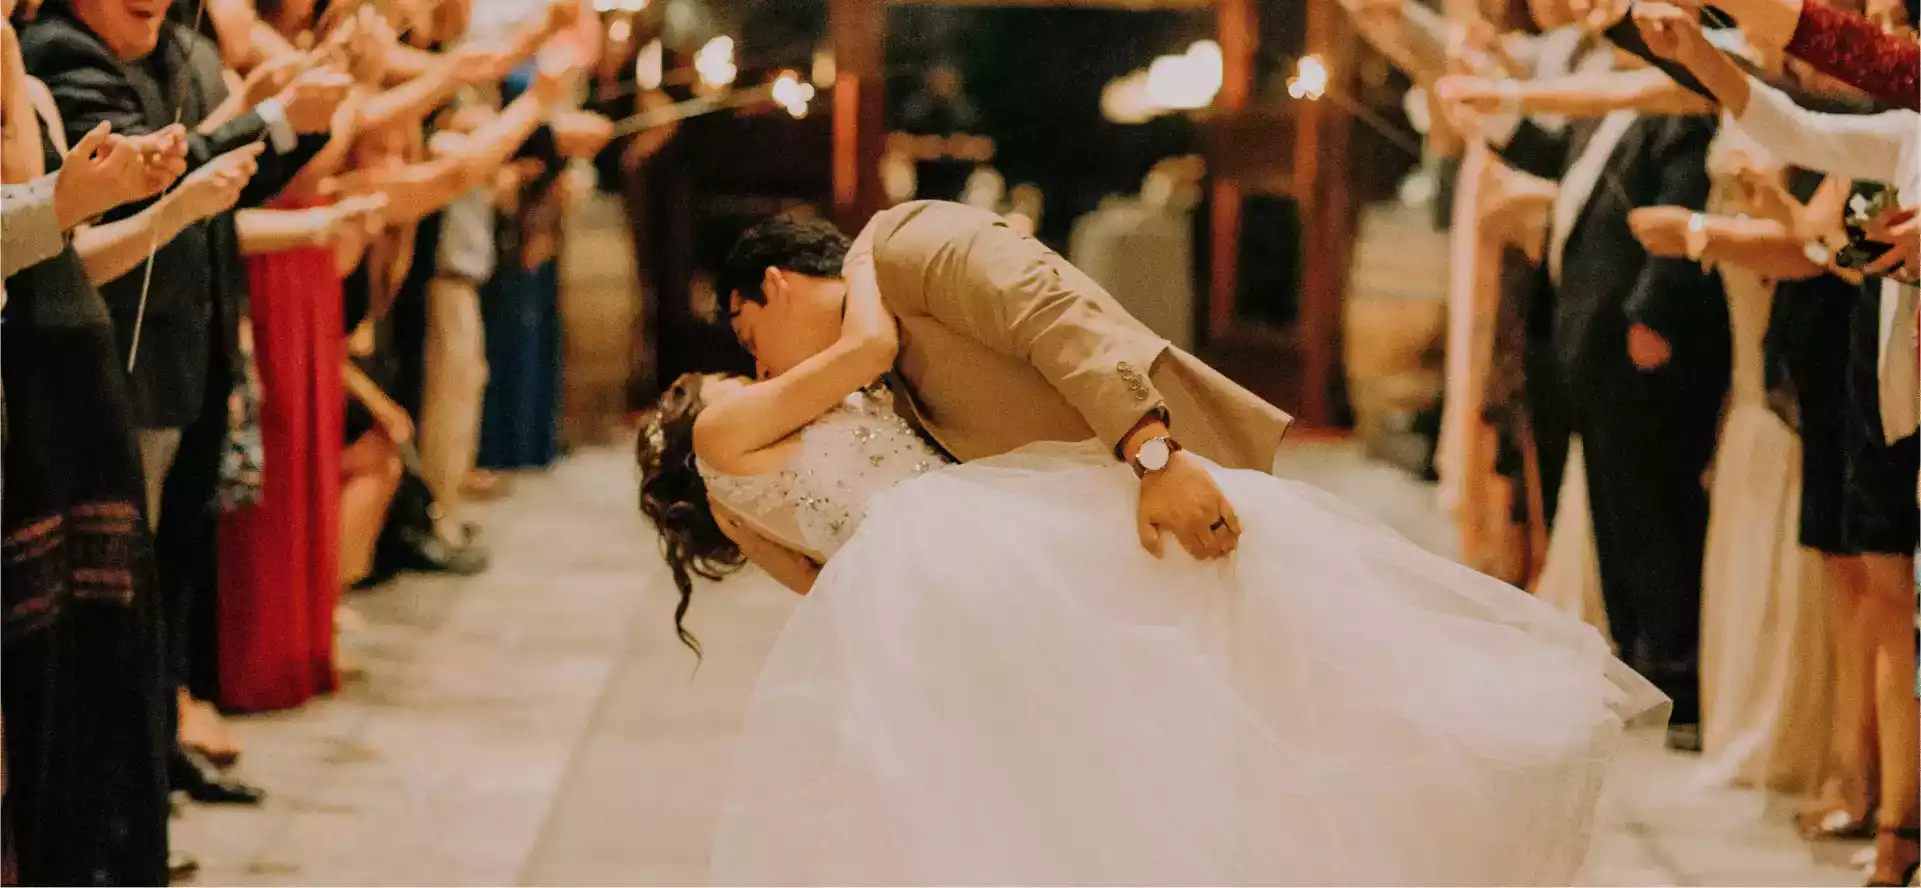
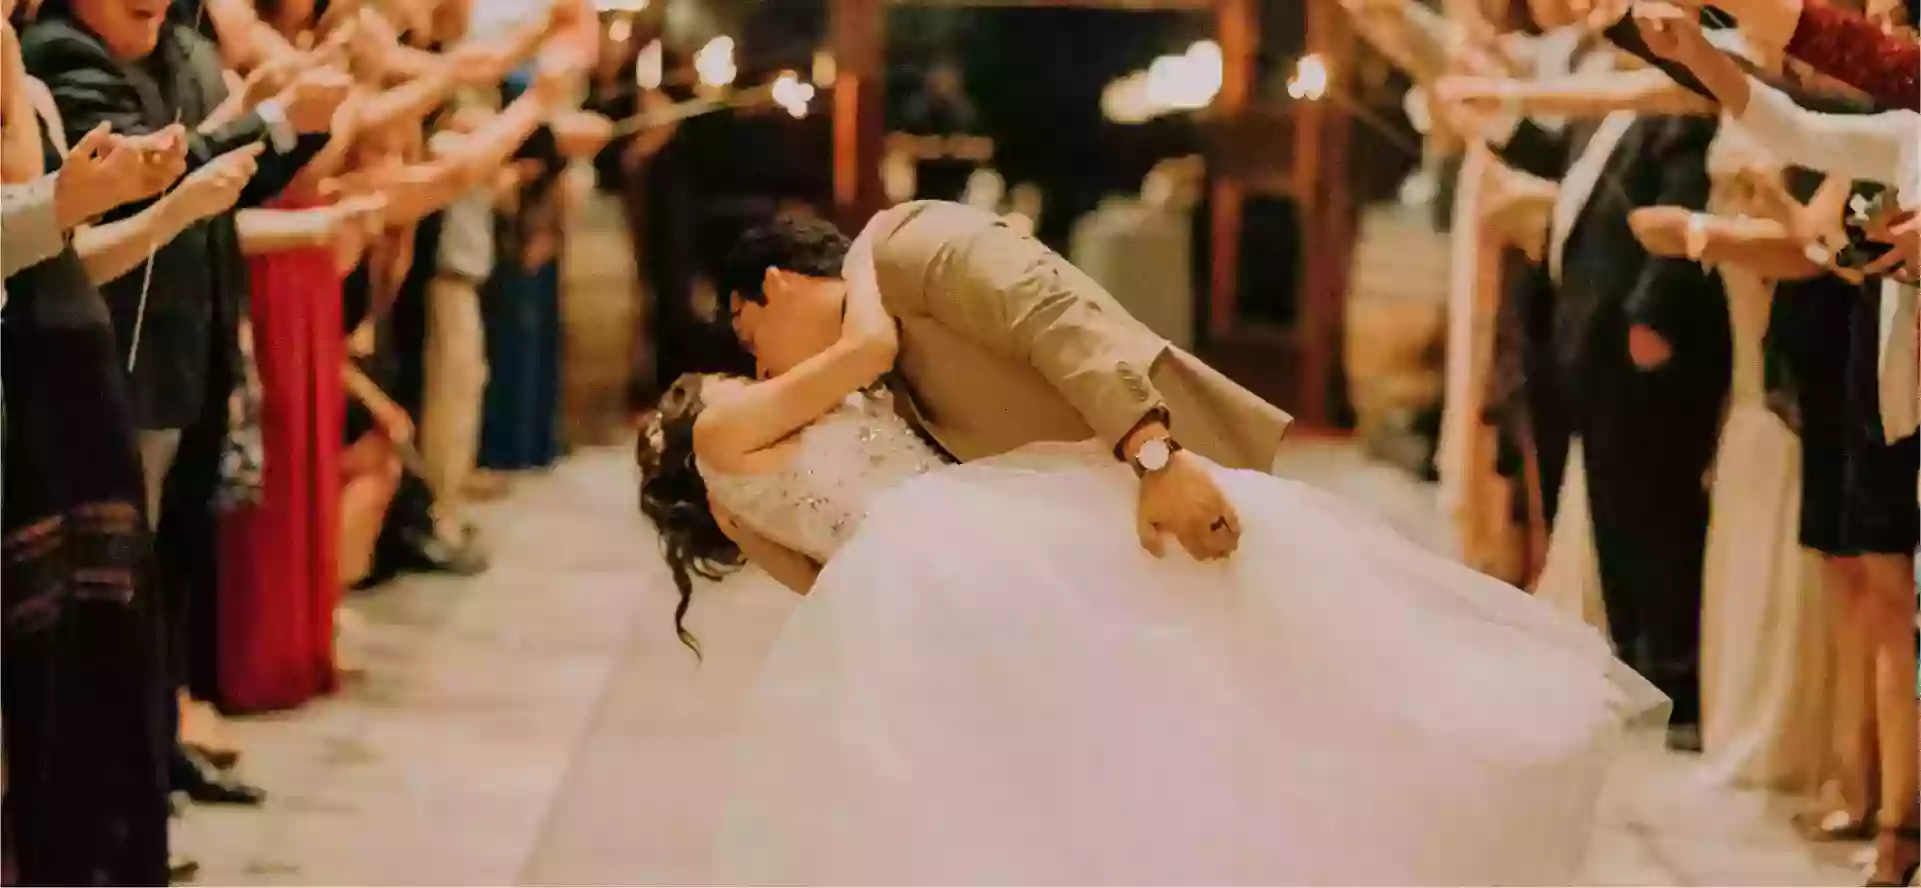
recompression img carrousel

diff --git a/index.html b/index.html
@@ -48,7 +48,7 @@
 		</div>
 		<div class="carousel-inner">
 			<section class="carousel-item active">
-				<img loading="lazy" src="./assets/images/slider/photo_ryoji_iwata_carrousel_1920px.webp" srcset="./assets/images/slider/photo_ryoji_iwata_carrousel_1920px.webp 1920w, ./assets/images/slider/photo_ryoji_iwata_carrousel_1140px.webp 1140w, ./assets/images/slider/photo_ryoji_iwata_carrousel_650px.webp, 650w" sizes="(max-width: 1920px) 1920px, (max-width: 1140px) 1140px, (max-width: 650px) 650px" class="d-block w-100" alt="photo ryoji iwata">
+				<img src="./assets/images/slider/photo_ryoji_iwata_carrousel_1920px.webp" srcset="./assets/images/slider/photo_ryoji_iwata_carrousel_1920px.webp 1920w, ./assets/images/slider/photo_ryoji_iwata_carrousel_1140px.webp 1140w, ./assets/images/slider/photo_ryoji_iwata_carrousel_650px.webp, 650w" sizes="(max-width: 1920px) 1920px, (max-width: 1140px) 1140px, (max-width: 650px) 650px" class="d-block w-100" alt="photo ryoji iwata">
 			</section>
 			<section class="carousel-item">
 				<img loading="lazy" src="./assets/images/slider/photo_nicholas_green_carrousel_1920px.webp" srcset="./assets/images/slider/photo_nicholas_green_carrousel_1920px.webp 1920w, ./assets/images/slider/photo_nicholas_green_carrousel_1140px.webp 1140w, ./assets/images/slider/photo_nicholas_green_carrousel_650px.webp, 650w" sizes="(max-width: 1920px) 1920px, (max-width: 1140px) 1140px, (max-width: 650px) 650px" class="d-block w-100" alt="photo nicholas green">
